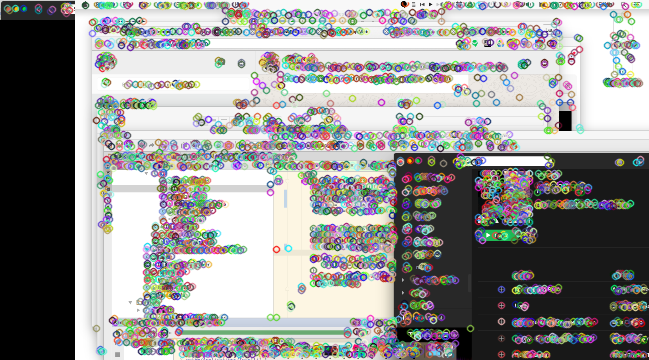
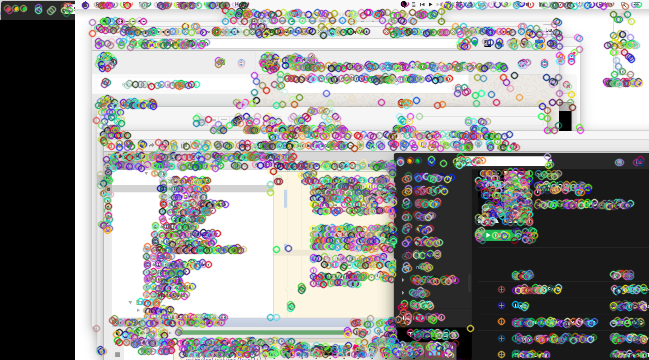
0.8OpenCv [12]  ready to switch to hashsets 0.4 real time hopefully

diff --git a/src/main/java/logic/features/util/ClusterColider.java b/src/main/java/logic/features/util/ClusterColider.java
@@ -2,11 +2,14 @@ package logic.features.util;
 
 
 import java.util.Arrays;
+import java.util.HashSet;
+import java.util.Set;
 
 public class ClusterColider {
     private static ClusterColider instance = new ClusterColider();
 
     private static boolean[][] colisions;
+    private static HashSet<Integer>[] colisionsHash;
 
     private static int next = 0;
     static int size = 10000;
@@ -22,6 +25,12 @@ public class ClusterColider {
     public static void reserveColisions() {
         if(colisions == null){
             colisions = new boolean[size][size];
+        }
+        if(colisionsHash == null){
+            colisionsHash = new HashSet[size];
+            for(int i=0;i<size;i++){
+                colisionsHash[i] = new HashSet<Integer>();
+            }
         }
         next = 0;
     }
@@ -41,6 +50,8 @@ public class ClusterColider {
 
     public static void doColideTargetWithSource(int target, int source){
         colisions[target][source] = true;
+        colisionsHash[target].add(source);
+        colisionsHash[target].addAll(colisionsHash[source]);
         doOr(target,source);
     }
 
@@ -54,14 +65,10 @@ public class ClusterColider {
         for(int i=0;i< size;i++){
             colisions[cluster][i] = false;
         }
+        colisionsHash[cluster].clear();
     }
 
-    public static boolean areColided(int a,int b){
-            try{
-                return colisions[a][b] || colisions[b][a];
-            }catch(Exception e){
-                e.printStackTrace();
-            }
-        return false;
+    public static boolean areColided(int a,int newc){
+            return colisionsHash[a].contains(newc);
     }
 }

diff --git a/src/test/java/logic/FeaturesScreenFinderTes.java b/src/test/java/logic/FeaturesScreenFinderTes.java
@@ -48,7 +48,7 @@ public class FeaturesScreenFinderTes {
 
 
         float expectedPerOneTime = 0.1f;
-        double testTimeInmilliseconds = 500;
+        double testTimeInmilliseconds = 5000;
         int singleIterations = (int)(13 * testTimeInmilliseconds/1000);
 
         //singleIterations = 1;

diff --git a/src/main/java/logic/features/util/ClusterCenter.java b/src/main/java/logic/features/util/ClusterCenter.java
@@ -37,6 +37,7 @@ public class ClusterCenter {
         point = new DoublePoint(x,y);
         numOfPoints = num;
         this.mostGeneralCenters = mostGeneralCenters;
+        mostGeneralCenters.add(this);
     }
 
     public boolean iammostGeneralClusterCenter() {
